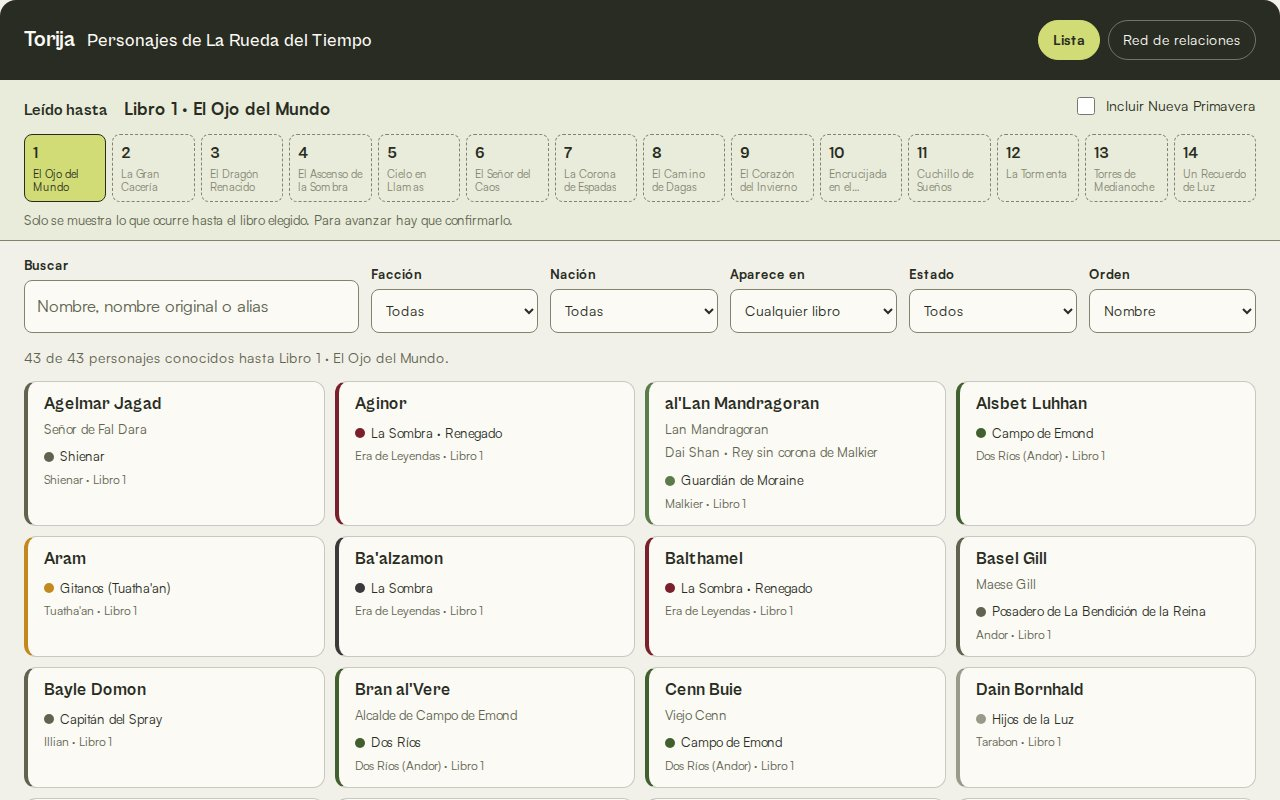
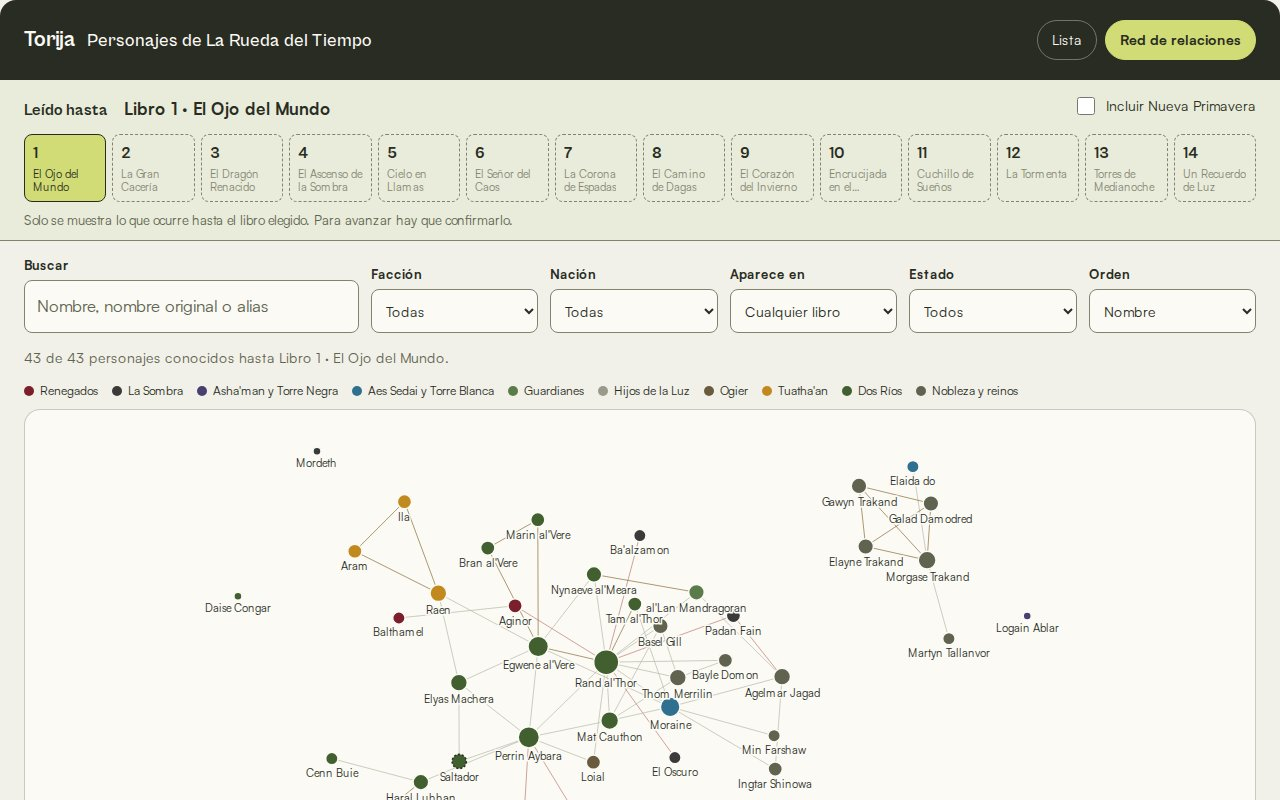
Dosier v1.3.24

diff --git a/index.html b/index.html
@@ -82,7 +82,7 @@ footer{border-top:1px solid var(--line);padding:28px 0 48px;color:var(--muted);f
 }
 .print-url{display:none;font-size:10pt}
 </style>
-<link href="./styles/dossier-torija.css?v=1.3.23" rel="stylesheet">
+<link href="./styles/dossier-torija.css?v=1.3.24" rel="stylesheet">
 </head>
 <body class="torija">
 <a class="skip-link" href="#inicio">Saltar al contenido</a>
@@ -203,12 +203,12 @@ footer{border-top:1px solid var(--line);padding:28px 0 48px;color:var(--muted);f
         </article>
 
         <article class="card" id="rueda-personajes">
-          <img src="img/rueda-personajes.jpg?v=1.0.0" alt="Personajes de La Rueda del Tiempo v1.0.0 con diseño Torija: selector de libro leído y lista de personajes del libro 1">
+          <img src="img/rueda-personajes.jpg?v=1.1.0" alt="Personajes de La Rueda del Tiempo v1.1.0 con diseño Torija: selector de libro leído y red de relaciones del libro 1">
           <div class="body">
-            <div class="meta"><span class="tag web">Acceso libre</span><span>v1.0.0 · Mapa de una saga · Diseño Torija</span></div>
+            <div class="meta"><span class="tag web">Acceso libre</span><span>v1.1.0 · Mapa de una saga · Diseño Torija</span></div>
             <h3>Personajes de La Rueda del Tiempo</h3>
             <p>Guía de los personajes de la saga de Robert Jordan y Brandon Sanderson: 272 personajes, sus relaciones y los libros en los que aparece cada uno. Tiene búsqueda y filtros por facción, nación, libro y estado, una red de relaciones y una ficha por personaje con su resumen libro a libro.</p>
-            <dl><dt>Cómo usarla</dt><dd>Elige arriba el libro por el que vas; por defecto se abre en el primero. Para avanzar hay que confirmarlo, y Nueva Primavera se activa aparte.</dd><dt>Aviso</dt><dd>Solo muestra lo ocurrido hasta el libro elegido. Es una web de fans no oficial; el código es privado.</dd></dl>
+            <dl><dt>Cómo usarla</dt><dd>Al abrirla pregunta hasta qué libro has leído y no muestra nada hasta elegirlo; después aparece la red de relaciones. Para avanzar de libro hay que confirmarlo, y Nueva Primavera se activa aparte.</dd><dt>Aviso</dt><dd>Solo muestra lo ocurrido hasta el libro elegido. Es una web de fans no oficial; el código es privado.</dd></dl>
             <span class="print-url">https://torija69.github.io/rueda-personajes/</span>
             <a class="btn" href="https://torija69.github.io/rueda-personajes/" target="_blank" rel="noopener">Abrir la guía →</a>
           </div>
@@ -364,7 +364,7 @@ footer{border-top:1px solid var(--line);padding:28px 0 48px;color:var(--muted);f
           <tr><td>Mapa café de Tokio</td><td>Relaciones de personajes de una novela</td><td><a href="https://torija69.github.io/mapa-cafe-tokio/">torija69.github.io/mapa-cafe-tokio</a> (acceso libre)</td><td>v1.2.0</td></tr>
           <tr><td>Mapa lunes con matcha</td><td>Relaciones de personajes de una novela</td><td><a href="https://torija69.github.io/mapa-lunes-matcha/">torija69.github.io/mapa-lunes-matcha</a></td><td>v1.2.0</td></tr>
           <tr><td>Mapa de Crawlers DCC</td><td>Tres zonas: personajes, trenes e inventario, con control de spoilers</td><td><a href="https://torija69.github.io/dcc-mapa/">torija69.github.io/dcc-mapa</a></td><td>v1.4.2</td></tr>
-          <tr><td>Personajes de La Rueda del Tiempo</td><td>Personajes, relaciones y apariciones por libro, con control de spoilers</td><td><a href="https://torija69.github.io/rueda-personajes/">torija69.github.io/rueda-personajes</a> (acceso libre)</td><td>v1.0.0 · Diseño Torija</td></tr>
+          <tr><td>Personajes de La Rueda del Tiempo</td><td>Personajes, relaciones y apariciones por libro, con control de spoilers</td><td><a href="https://torija69.github.io/rueda-personajes/">torija69.github.io/rueda-personajes</a> (acceso libre)</td><td>v1.1.0 · Diseño Torija</td></tr>
           <tr><td>TrinukaCuadros</td><td>Certámenes de pintura 2026–2027</td><td><a href="https://torija69.github.io/trinukacuadros/">torija69.github.io/trinukacuadros</a></td><td>v1.1.1</td></tr>
           <tr><td>Repaso de errores · Permiso B</td><td>Repaso de los fallos de los tests de conducir</td><td><a href="https://torija69.github.io/repaso-permiso-b/">torija69.github.io/repaso-permiso-b</a></td><td>v2.1.0 (con cuenta) · Diseño Torija</td></tr>
           <tr><td>CasaMarta</td><td>Venta y compra de vivienda familiar</td><td><a href="https://torija69.github.io/casamarta/">torija69.github.io/casamarta</a> (con cuenta)</td><td>v1.0.0</td></tr>
@@ -419,7 +419,7 @@ footer{border-top:1px solid var(--line);padding:28px 0 48px;color:var(--muted);f
 </main>
 
 <footer>
-  <div class="wrap">Dossier v1.3.23 · Diseño Torija v1.0.0 · Adaptación visual del 22 de octubre de 2026. Personajes de La Rueda del Tiempo v1.0.0 añadida el 13 de noviembre de 2026. Ludoteca del Tori añadida el 13 de noviembre de 2026; ese mismo día pasó a v1.1.0, con recuentos calculados de sus datos, y a v1.2.0, con lotes de juego y expansiones, juegos que no se venden y control privado de ventas. Mapa DCC v1.4.2, con sus tres zonas (personajes, trenes e inventario), actualizado el 13 de noviembre de 2026. Dieta v1.6.0 y su captura de acceso revisadas el 25 de octubre de 2026. Desde el 25 de octubre de 2026, todas las webs se publican en GitHub Pages con acceso libre, por indicación del propietario. Ambos mapas de Aoyama conservan v1.2.0 y sus direcciones definitivas. LaAudiolibrotecaDelTori conserva v1.3.2 y su esquema propio Audiobiblioteca. El repaso de errores del permiso B se añadió el 26 de octubre de 2026 y ese mismo día pasó a v2.0.0, con cuenta para sus dos usuarios; el 27 de octubre, v2.1.0 añade las imágenes de las preguntas. Las aplicaciones locales se muestran en su Mac; los datos personales no forman parte de las demostraciones.</div>
+  <div class="wrap">Dossier v1.3.24 · Diseño Torija v1.0.0 · Adaptación visual del 22 de octubre de 2026. Personajes de La Rueda del Tiempo añadida el 13 de noviembre de 2026; ese mismo día pasó a v1.1.0, con aviso de libro leído al abrir y la red de relaciones como vista inicial. Ludoteca del Tori añadida el 13 de noviembre de 2026; ese mismo día pasó a v1.1.0, con recuentos calculados de sus datos, y a v1.2.0, con lotes de juego y expansiones, juegos que no se venden y control privado de ventas. Mapa DCC v1.4.2, con sus tres zonas (personajes, trenes e inventario), actualizado el 13 de noviembre de 2026. Dieta v1.6.0 y su captura de acceso revisadas el 25 de octubre de 2026. Desde el 25 de octubre de 2026, todas las webs se publican en GitHub Pages con acceso libre, por indicación del propietario. Ambos mapas de Aoyama conservan v1.2.0 y sus direcciones definitivas. LaAudiolibrotecaDelTori conserva v1.3.2 y su esquema propio Audiobiblioteca. El repaso de errores del permiso B se añadió el 26 de octubre de 2026 y ese mismo día pasó a v2.0.0, con cuenta para sus dos usuarios; el 27 de octubre, v2.1.0 añade las imágenes de las preguntas. Las aplicaciones locales se muestran en su Mac; los datos personales no forman parte de las demostraciones.</div>
 </footer>
 </body>
 </html>
